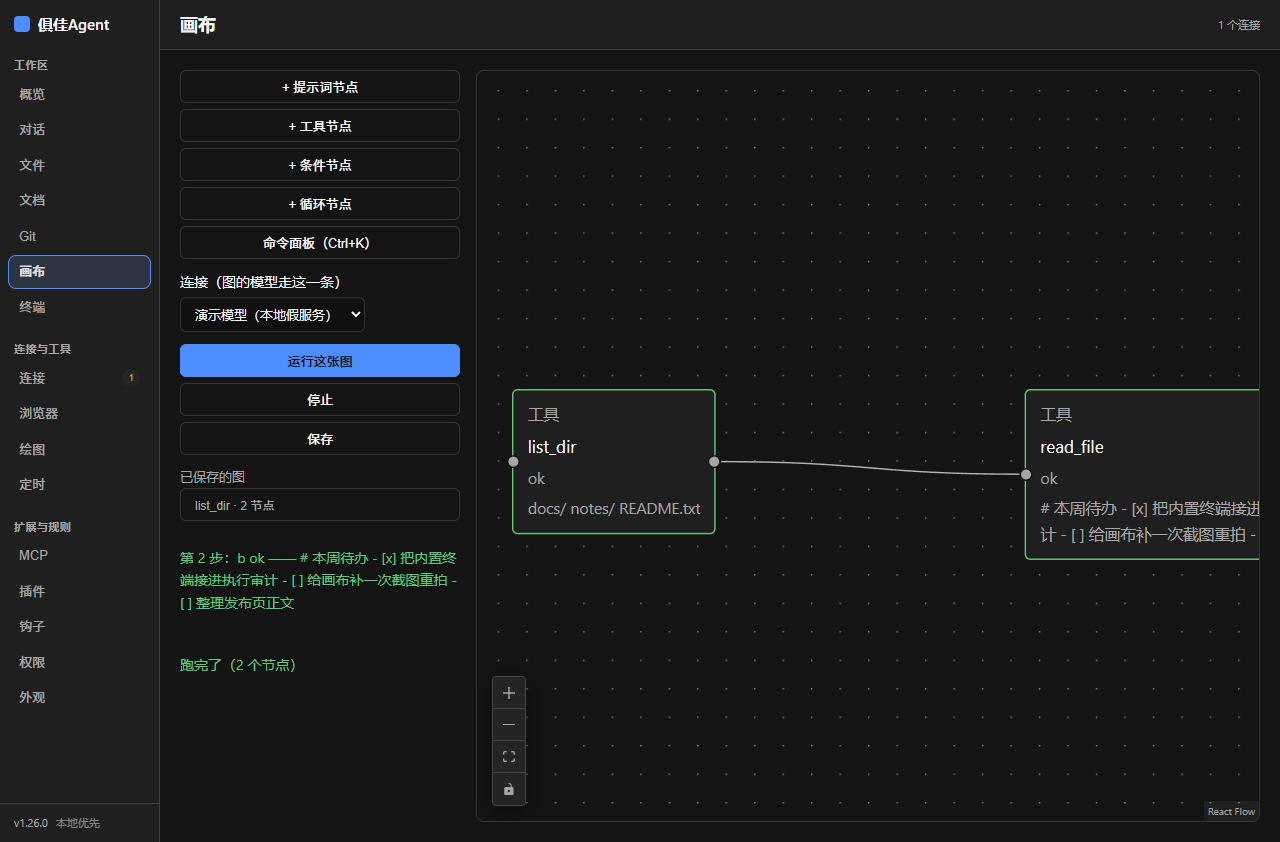
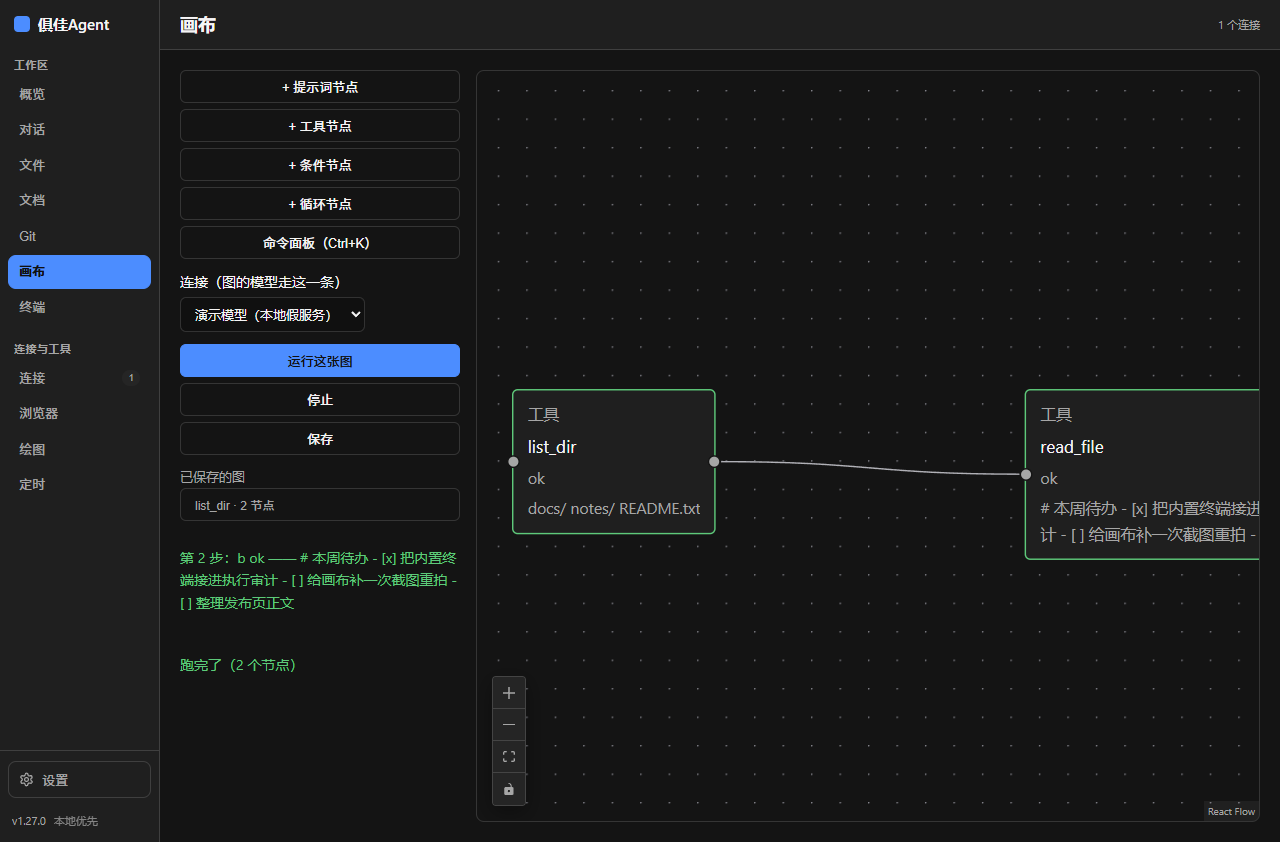
回填笔（R67）：推送核对 + CI 红因（展示图过期）⇒ 重拍展示页 + 把事实写进 §2
**范围**：`docs/screenshots/*`（**展示页 4 张图重拍** + `manifest.json` 记 **v1.27.0 @ `d875570`**、`dirtyAtCapture:false`）·
`README.md`（图注版本跟到 **v1.27.0**）· `俱佳Agent交接文档.md`（§2 提交链 / 远端一致性 / CI / 门禁真值四格）。
**标签仍指主体提交 `d875570`**（本提交只是把"推送核对 / CI / 重拍"这三样事实写进台账，**不改写已推历史**）。

1. **推送核对** —— 主体 `d875570` 与标签 `v1.27.0-排查36` 一次推成功；
   `ls-remote` 核对：**远端 main == 本地 HEAD == `d875570`**，远端标签 `9996a27` peel 后同样指向 `d875570` ⇒ **零待推**。
   ⇒ 推送仍按 §10.11 的配方走（`curloptResolve` + `schannel`）：本轮扫的五个候选 IP 恰好全通，
   但**仍按配方走** —— 那条阻断是**时好时坏**的，"这次通了"不等于"下次也会通"。
2. **CI run `#259`（id `40068996990`）是红的** —— 红的只有**「文档一致性」那一步**
   （`Lint` / `类型检查` / `单元测试` 都绿）⇒ 根因是**第 51 条判据「展示图不许悄悄过期」**：
   R67 改了渲染层 ⇒ 对外那 4 张展示图过期 ⇒ **重拍 + 本提交里更新 README 图注**
   （清单 = **v1.27.0 @ `d875570`**）⇒ **回填笔这次 run 才是绿的**
   —— **与 R66 是同一形状**（主体提交的 run 必然红在"文档一致性"，回填笔那次转绿）。
   这也说明那条判据**确实在干活**：它拦下的不是"图丑了"，是"对外声称的图与产品不是同一版"。
3. **README 图注跟着改** —— 判据要求 README 的图注写明清单记录的版本 ⇒ `v1.26.0` → **`v1.27.0`**。
4. **如实记（本轮 e2e 前四跑都红在真问题上）** —— ①「**对话页被设置中心卸载**」（T22 报备的「常驻」被违反）
   ⇒ 改成**藏而不拆**；②「**裸 checkbox 13×13**」⇒ 换成 44×24 的**开关**；
   ③「**选中态被 hover 吃掉**」（`:hover` 特异性更高 ⇒ 悬停时选中态消失，字与底 1.09:1）⇒ 加 `.app-tab-active:hover` 覆盖；
   ④（脚本侧）T78 那一步的定位器**写法不同**漏改 ⇒ 补导航。⇒ 四条都不是"脚本抽风"。

**本轮门禁真值**：typecheck 0 · lint 0 · 单测 **2244 通过 / 1 跳过（154 个测试文件）** ·
`check:docs` **54 条** 0 · 注入自检 **52 处**全拦 0 · 全量变异 **339/339** · **e2e 70 步整跑 0**（第五跑）。

diff --git a/俱佳Agent交接文档.md b/俱佳Agent交接文档.md
@@ -31,11 +31,11 @@
 |----|----|
 | 版本 | `1.27.0`（`apps/desktop/package.json`；每轮 **+minor** —— **这只是版本号，不是"正式发布"的声明**，发布动作仍全在 owner 手里，见 `docs/RELEASE-PREP.md`） |
 | 最新标签 | `v1.27.0-排查36` → 提交（**标签指向该轮主体提交**，不是回填提交；本轮主体提交的哈希见 `git log --oneline -3`） |
-| 提交链 | **近三轮**（完整链见 `git log --oneline`）：R67 主体（设置中心 · 排查36）→ 回填笔（把本轮哈希、推送核对、CI 与重拍展示图写进 §2）· R66 主体 `f078e77`（主界面两栏化 · 排查35）· R65 主体 `4c93469`（T85 与 T69③ 落地 · 排查34） |
-| 远端一致性 | ✅ **已推送并核对（2026-10-24）**：R66（排查35）主体 `f078e77` 与标签 `v1.26.0-排查35` 一次推成功（`git push origin main` → `git push origin refs/tags/v1.26.0-排查35` → `* [new tag]`），`ls-remote` 核对**远端 main == 本地 HEAD == `f078e77`**、远端标签 `691e419` peel 后同样指向 `f078e77` ⇒ **零待推**。R65（排查34）主体 `4c93469`、R64（排查33）主体 `7d42c9a` 亦已在远端（同一形状，各轮核对过）。**本轮推时撞到一条机器坑**：原先那句「网络会抖、重试 3–4 次」**判错了** —— 那是**针对 `github.com:443` 的选择性阻断**（`api.github.com` / `gitee` / `npm` 全通 ⇒ 不是本机断网），**重试无用，改解析才有用** ⇒ 配方见 §10.11（本轮实测：五个候选 IP 当次全通，但仍按配方走 `curloptResolve` + `schannel`）。 |
+| 提交链 | **近三轮**（完整链见 `git log --oneline`）：R67 主体 `d875570`（设置中心 · 排查36）→ 回填笔（把本轮哈希、推送核对、CI 与重拍展示图写进 §2）· R66 主体 `f078e77`（主界面两栏化 · 排查35）· R65 主体 `4c93469`（T85 与 T69③ 落地 · 排查34） |
+| 远端一致性 | ✅ **已推送并核对（2026-10-24）**：R67（排查36）主体 `d875570` 与标签 `v1.27.0-排查36` 一次推成功（`git push origin main` → `git push origin refs/tags/v1.27.0-排查36` → `* [new tag]`），`ls-remote` 核对**远端 main == 本地 HEAD == `d875570`**、远端标签 `9996a27` peel 后同样指向 `d875570` ⇒ **零待推**。R66（排查35）主体 `f078e77`、R65（排查34）主体 `4c93469` 亦已在远端（同一形状，各轮核对过）。**推送配方照旧**（§10.11 的 `curloptResolve` + `schannel`）：本轮扫的五个候选 IP 恰好全通，但**仍按配方走** —— 那条阻断是**时好时坏**的，"这次通了"不等于"下次也会通"。 |
 | 仓库可见性 | **已公开**（2026-10-23 现扫 · 两法互证：`GET /repos/…` → `visibility: public`，**匿名**同一 URL → **200** —— 公开仓返 200 / 私有仓返 404，判别法是 `docs/HANDOVER.md` §5.9 自己写下的）。**账上曾长期写着相反的话**（2026-09-24 的旧事实被当成现况）⇒ **§5.9 的「开源前置检查单」从未走过**，现在它不是"切公开之前"要做的事，而是**已经公开之后必须补做**的事 ⇒ **R63 已补跑并留证**（`docs/RELEASE-PREP.md` §三）。**发版 / 发布页更新 / 凭据轮换仍等一句明确的「发」** |
-| CI | workflow 只跟 `main` / PR；**R66（排查35）的 run `#257`（id `40008816546`）**：第一次 **failure —— 红在「文档一致性」那一步**（`Lint` / `类型检查` / `单元测试` 三步都绿）⇒ 根因是**第 51 条判据「展示图不许悄悄过期」**：R66 改了渲染层 ⇒ 对外那 4 张展示图过期 ⇒ **重拍后复跑转绿**（展示图清单 = **v1.26.0 @ `f078e77`**，`dirtyAtCapture:false`）⇒ **这是那条判据第一次真的拦下了一次"界面动了但图没重拍"**（此前 R62 是从零立起它）。取法见 §6.3（本机**未装 `gh` CLI** ⇒ 靠 API 取 run）。**workflow 本身已现扫核对**：两个 workflow（`ci.yml` 跑快档去掉 e2e · `mutation.yml` 手动触发慢档变异）**与 PROGRESS 的快/慢档口径一致**，第 14 条判据在岗 |
-| 门禁最近一次真值 | typecheck 0 · lint 0 · 单测 **2244 通过 / 1 跳过（154 个测试文件）**（+11 例 / +1 文件）· `check:docs` **54 条** 0 · 注入自检 **52 处**全拦 0 · **e2e 70 步整跑 0**（R67 改了**外壳与设置中心** ⇒ 渲染契约按新形态重测：**设置项一行一条**（独占一行 / 控件在右 / 每项有说明 / 控件命中区：按钮 ≥32×32、原生控件按 **T78 口径**判「实际能点到的那块」≥24×24）+ **设置中心**一步（整页覆盖 / ≥3 组 ≥5 项 / 搜索能筛 / 能回应用）；**前两跑都红在真问题上** —— 第一跑红在「**对话页被设置中心卸载**」（T22 报备的「常驻」被违反）⇒ 改成**藏而不拆**；第二跑红在「**裸 checkbox 13×13**」⇒ 换成 44×24 的**开关**）· 变异 **339 条**（`review/mutations.json` 现扫，末条 `M339`；R67 补 M337–M339 三条并逐条证红）· **慢档本轮未实跑**（smoke / perf / verify:pack）—— 本轮改的是渲染层布局，慢档与本轮改动无关 ⇒ 如实标注而非默认"最近一次全绿"（上一轮实跑见 R61） |
+| CI | workflow 只跟 `main` / PR；**R67（排查36）主体提交的 run `#259`（id `40068996990`）是红的** ⇒ 红的只有**「文档一致性」那一步**（`Lint` / `类型检查` / `单元测试` 都绿）⇒ 根因是**第 51 条判据「展示图不许悄悄过期」**：R67 改了渲染层 ⇒ 对外那 4 张展示图过期 ⇒ **重拍 + 回填笔里更新 README 图注**（清单 = **v1.27.0 @ `d875570`**，`dirtyAtCapture:false`）⇒ **回填笔那次 run 才是绿的** —— **这与 R66 是同一形状**（主体提交的 run 必然红在"文档一致性"，回填笔那次转绿；R62 立起这条判据时它第一次拦下"界面动了但图没重拍"）。取法见 §6.3（本机**未装 `gh` CLI** ⇒ 靠 API 取 run）。**workflow 本身已现扫核对**：两个 workflow（`ci.yml` 跑快档去掉 e2e · `mutation.yml` 手动触发慢档变异）**与 PROGRESS 的快/慢档口径一致**，第 14 条判据在岗 |
+| 门禁最近一次真值 | typecheck 0 · lint 0 · 单测 **2244 通过 / 1 跳过（154 个测试文件）**（+11 例 / +1 文件）· `check:docs` **54 条** 0 · 注入自检 **52 处**全拦 0 · **e2e 70 步整跑 0**（R67 改了**外壳与设置中心** ⇒ 渲染契约按新形态重测：**设置项一行一条**（独占一行 / 控件在右 / 每项有说明 / 控件命中区：按钮 ≥32×32、原生控件按 **T78 口径**判「实际能点到的那块」≥24×24）+ **设置中心**一步（整页覆盖 / ≥3 组 ≥5 项 / 搜索能筛 / 能回应用）；**前四跑都红在真问题上** —— ①「**对话页被设置中心卸载**」（T22 报备的「常驻」被违反）⇒ 改成**藏而不拆**；②「**裸 checkbox 13×13**」⇒ 换成 44×24 的**开关**；③「**选中态被 hover 吃掉**」（`:hover` 特异性更高 ⇒ 悬停时选中态消失，字与底 1.09:1）⇒ 加 `.app-tab-active:hover` 覆盖；④（脚本侧）T78 那一步的定位器**写法不同**漏改 ⇒ 补导航）· 变异 **339 条**（`review/mutations.json` 现扫，末条 `M339`；R67 补 M337–M339 三条并逐条证红，**另把 M333 重新对准**到新家 —— 那一组从左栏搬进了设置中心 ⇒ 锚点跟着搬，**内容一字未改**）· **慢档本轮未实跑**（smoke / perf / verify:pack）—— 本轮改的是渲染层布局，慢档与本轮改动无关 ⇒ 如实标注而非默认"最近一次全绿"（上一轮实跑见 R61） |
 | 排期 | **后续各轮的逐轮计划见 `docs/TRACK-ROADMAP.md` §6.3**（题面 / 可量验收 / 停牌点 / 谁做；§6.3 的标题仍写着「后续十轮（R45–R54）」，那是**落文当时**的排期，行数已续排到 **R67**）· **R66 = 主界面两栏化**（**所有者点名的 UI 轮**，2026-10-24 交付 · `v1.26.0-排查35`）：外壳从「顶栏 16 个横向页签」改成「**左栏分组导航 + 主区**」，落地屏与输入区分区一并落地（口径见 `docs/DESIGN-BASELINE.md` 的 R66 小节）· **R67 = 设置中心**（2026-10-24 交付 · `v1.27.0-排查36`）：外观 / 权限规则 / 钩子 / 插件 / MCP 从左栏搬进**整页覆盖主区的设置中心**（左导航 3 组 + 搜索能筛 + 返回应用），左栏 16 → **11** 项 + 底部齿轮；外观页的 13 项改成**一行一条**（标题 + 说明 + 右侧控件）⇒ **这批参考界面里"设置页"那一半已经做完**（口径见 `DESIGN-BASELINE.md` 的 R67 小节）· **下一轮 R68 = 左栏图标化**（11 个入口目前只有文字 ⇒ 补 11 枚内联 Lucide 图标，零新依赖）+ 权限 / 钩子 / 插件 / MCP 四项的面板形态复核（它们是**清单页**，不照搬"一行一条"）· **队列里剩下的 4 条仍不可自裁**（T39 等一句「发」· T41 等一句「可以收紧」· T65 / T68 等一次现场）⇒ **切公开 / 发版 / 凭据轮换仍等一句明确的「发」** |
 | 队列 | **机器口径**（判据现扫 ROADMAP 四张表 ⇒ 与这一句**逐字对账**，对不上就红）：87 物理行 / 86 个唯一编号 · ✅ 已交付 82 条 · ⬜ 待排 0 条 · 🔶 等人拍板 1 条（T39） · 🟡 部分交付或根因未定 3 条（T41 / T65 / T68）。⇒ **真未完 = 0 + 1 + 3 = 4 条**，逐条见 §9。**R65 把"待排"清零了** —— 队列里**能自裁的都做完了**（T86 于 R63 · T74 于 R64 · T85 与 T69 于 R65）⇒ 剩下 4 条没有一条是"我自己能做"的：**两条等一句拍板**（T39 发版 / T41 终端进判定）· **两条等一次现场**（T65 / T68 e2e 偶发红）。**这套口径是机器给的，不是人抄的**：R63 立完第一条锁时，它当场把旧账（✅77 · ⬜5）判成红并打出真值；R64 关掉 T74、R65 关掉 T85 / T69 / T86 之后它又各打一次 ⇒ **人抄的数会漂，判据算的数不会**。 |
 | 待所有者裁决 | **2026-10-21 起所有者不再逐项拍板，改为由维护方（我）自行决定并推进** —— 原清单（媒体生成 A/B/C · T52/T53 · T31 自动重连 · M14 归口 · M20–M22 · T69② · `.trash` 窗口）**已全部转成"已决"**，决定与理由见 `docs/DECISION-SELF-DIRECTED.md`。**仍然不做的两条**：① **切公开 / 发版 / 发布页更新**（对外可见的不可逆动作 ⇒ 只做到前置检查单做完留证据，最后那一下等一句明确的「发」）② **凭据轮换**（需 GCM 交互授权链 ⇒ 只做到查清现状 + 写清步骤） |

diff --git a/README.md b/README.md
@@ -16,7 +16,7 @@
 
 ## 界面一览
 
-截图取自 **`v1.26.0` 的打包产物**（不是设计稿，也不是开发态 —— 开发态的版本号会回落到 Electron 版本）。
+截图取自 **`v1.27.0` 的打包产物**（不是设计稿，也不是开发态 —— 开发态的版本号会回落到 Electron 版本）。
 数据目录与工作区都是**中性演示路径**（`D:\JujiaAgentDemo*`），拍完自动清场。
 **重拍一条命令**：`npm run screenshots`（离屏渲染，不弹窗口；产物与版本、提交、是否干净都记在
 [`docs/screenshots/manifest.json`](docs/screenshots/manifest.json) 里）：
